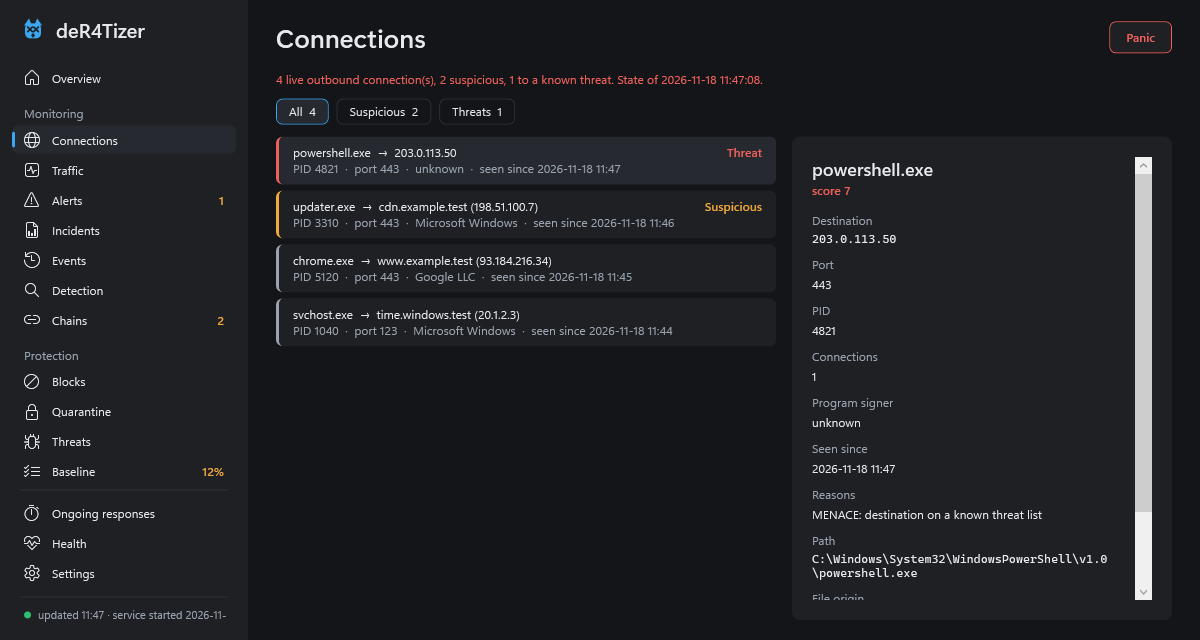
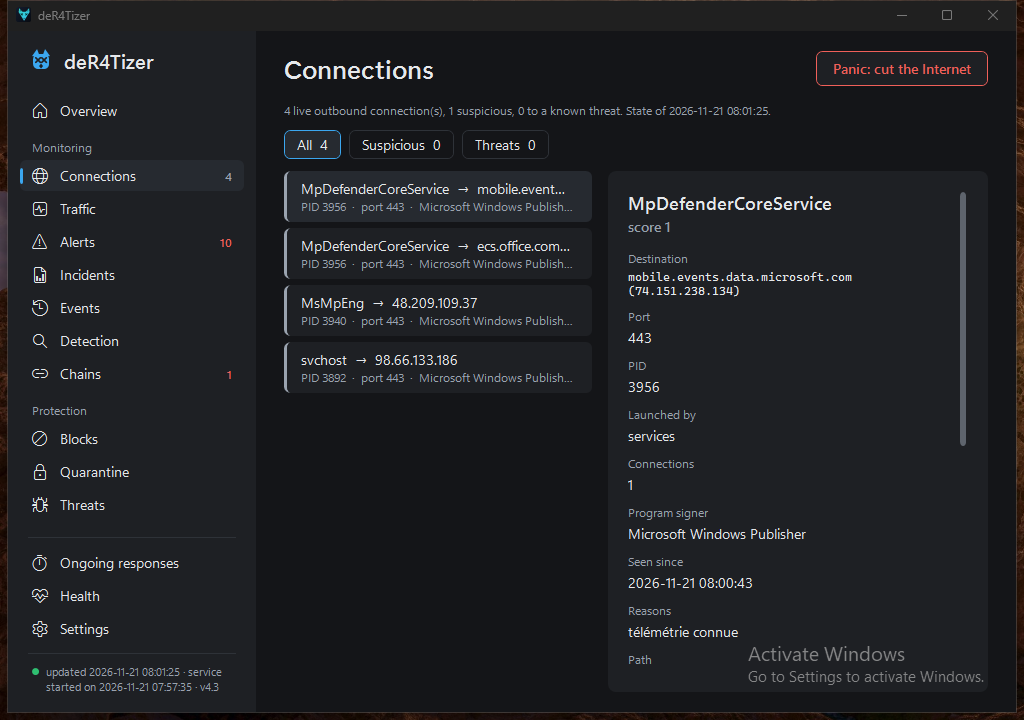
Page : captures réelles de l'interface actuelle prises en VM (Vue d'ensemble, alerte critique de l'attaque de démonstration, Connexions), texte honnête (filigrane, textes en français, VM sans baseline)

diff --git a/index.html b/index.html
@@ -290,11 +290,7 @@
 
       <div class="hero-shot">
         <button class="win" type="button" data-zoom="images/interface-en-vue-d-ensemble.png" aria-label="Enlarge the Overview screenshot">
-          <span class="bar">
-            <svg viewBox="0 0 24 24" fill="none" aria-hidden="true"><path d="M4 7.5h6L4.5 1.5zM20 7.5h-6l5.5-6zM3.5 7h17L12 20.5z" fill="currentColor"/></svg>
-            <span>deR4Tizer</span><b>─</b><b>☐</b><b>✕</b>
-          </span>
-          <img src="images/interface-en-vue-d-ensemble.png" width="1200" height="760" alt="Overview page of deR4Tizer: a banner reading “Nothing confirmed, 4 points to watch”, four tiles to watch, and the items in order.">
+          <img src="images/interface-en-vue-d-ensemble.png" width="1024" height="720" alt="Overview page of deR4Tizer: a banner reading “Nothing confirmed, 4 points to watch”, tiles for 10 alerts, 1 chain, 12% of security settings applied and 2 autostart entries, and the items in order.">
         </button>
       </div>
     </div>
@@ -315,13 +311,13 @@
     <div class="wrap">
       <p class="eyebrow">The interface</p>
       <h2>Written for the person who is not a security analyst</h2>
-      <p class="section-lead">Real screenshots, taken in the test VM on Windows 11 with Microsoft Defender on. Select one to enlarge it.</p>
+      <p class="section-lead">Real screenshots of the current interface, taken on 2026-11-21 in the test VM (Windows 11, not activated, hence the watermark; Microsoft Defender on; no security baseline applied), after a harmless demo attack. Some texts that come from the service are still in French. Select one to enlarge it.</p>
 
       <div class="tour">
         <div class="row">
           <div class="shot">
             <button class="win" type="button" data-zoom="images/interface-en-vue-d-ensemble.png" aria-label="Enlarge the Overview screenshot">
-              <img src="images/interface-en-vue-d-ensemble.png" width="1200" height="760" loading="lazy" alt="Overview page with its status banner and tiles.">
+              <img src="images/interface-en-vue-d-ensemble.png" width="1024" height="720" loading="lazy" alt="Overview page with its status banner and tiles.">
             </button>
           </div>
           <div>
@@ -339,7 +335,7 @@
         <div class="row flip">
           <div class="shot">
             <button class="win" type="button" data-zoom="images/interface-en-alertes-attaque.png" aria-label="Enlarge the Alerts screenshot">
-              <img src="images/interface-en-alertes-attaque.png" width="1200" height="820" loading="lazy" alt="Alerts page: a critical alert on powershell.exe with its rule, ATT&amp;CK technique, advice and response buttons.">
+              <img src="images/interface-en-alertes-attaque.png" width="1024" height="720" loading="lazy" alt="Alerts page filtered on Critical: the demo attack caught as a probable attack chain, PowerShell then cmd, with its rule, ATT&amp;CK technique, advice and reasons.">
             </button>
           </div>
           <div>
@@ -357,7 +353,7 @@
         <div class="row">
           <div class="shot">
             <button class="win" type="button" data-zoom="images/interface-en-connexions.png" aria-label="Enlarge the Connections screenshot">
-              <img src="images/interface-en-connexions.png" width="1200" height="640" loading="lazy" alt="Connections page: programs reaching the Internet with destination, signer and risk level.">
+              <img src="images/interface-en-connexions.png" width="1024" height="720" loading="lazy" alt="Connections page: programs reaching the Internet with destination, signer and risk level.">
             </button>
           </div>
           <div>
